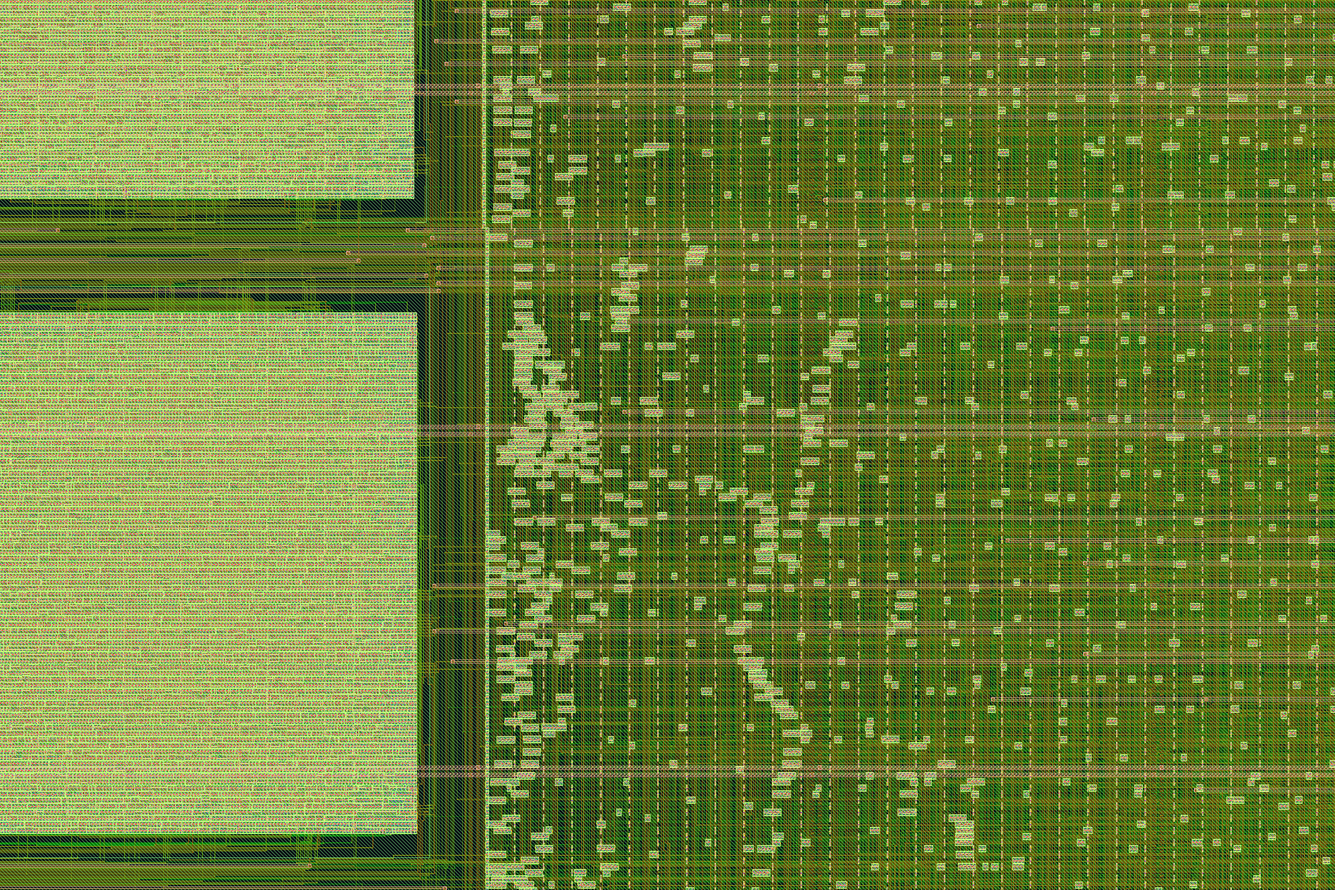
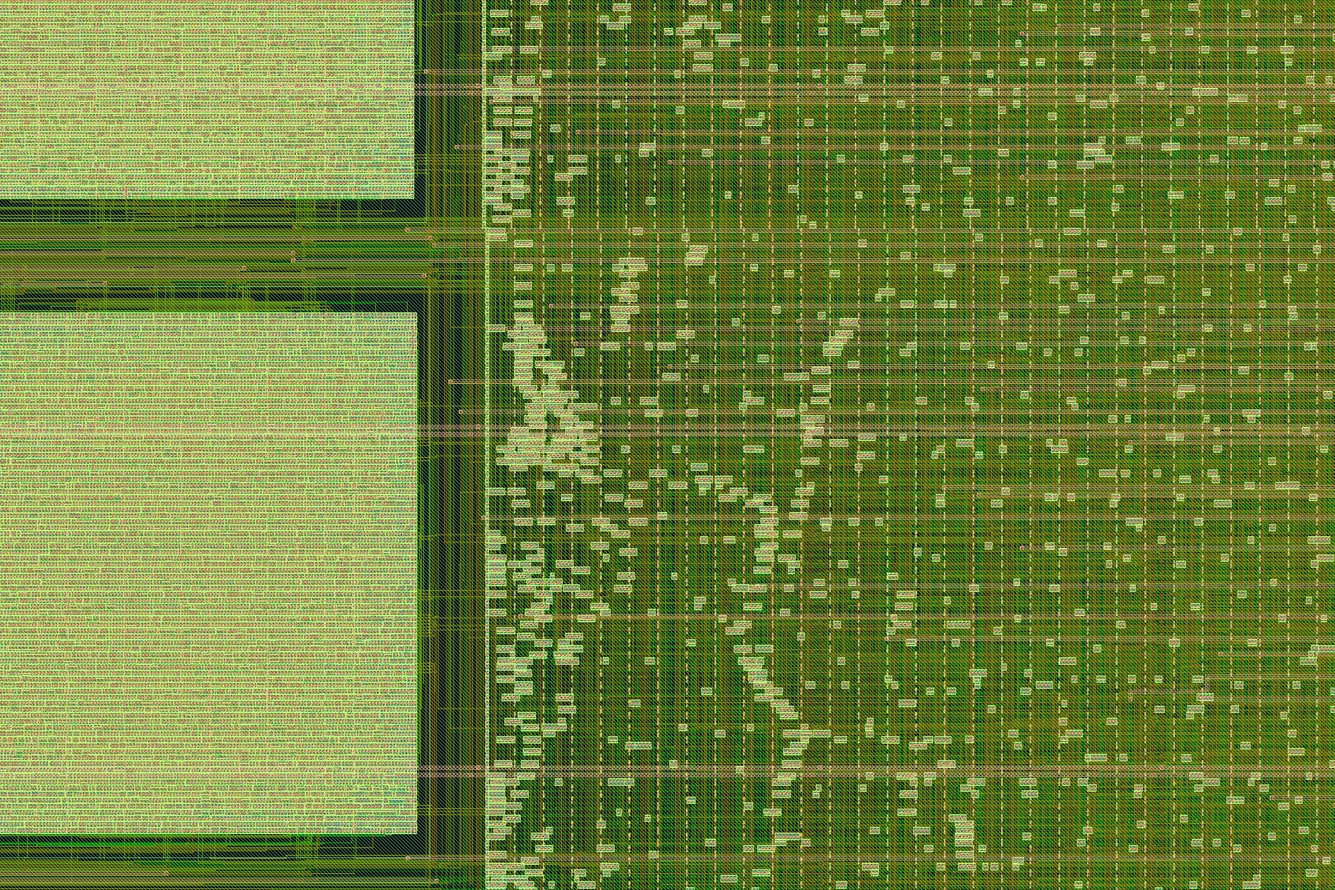
machine_routed: v6 (unsigned; DRT 0, setup clean at 9 corners, hold 252, gate-level replay pass)

Changed region(s): [[0.0, 0.0, 1.0, 1.0]]

diff --git a/docs/machine_routed/index.html b/docs/machine_routed/index.html
@@ -34,18 +34,18 @@ ul{padding-left:20px}
 <body>
 <main>
 <h1>吟游诗人 Bard · 整机布线版</h1>
-<p class="sub">R135 整机（token → 下一个 token）· SKY130A · 6.441 × 3.003 mm · 第三版（布线零违例）</p>
+<p class="sub">R135 整机（token → 下一个 token）· SKY130A · 6.441 × 3.003 mm · 第六版（布线零违例，setup 全过）</p>
 
-<div class="ok"><b>功能已核对。</b>把布线后的网表按 SKY130 官方单元模型还原成门级电路，再用 3 个用例回放：下一个 token 分别为 32、5、128，与 C 参考实现一致，拍数与 RTL 完全相同；故意改坏一个门后，回放会被判错。</div>
-<div class="warn"><b>未签核，不能流片。</b>详细布线已做到 <b>0</b> 处布线规则违例（第一版 24,314 处）。天线违例 11,151 根网没修好，DRC/LVS 和多工艺角时序签核都没做。时序（改正约束后，布线后 RC 提取、9 个工艺角）：hold 共 496 处违例，最差 −1.10 ns（慢角）；setup 在慢角有 34 处违例，最差 −14.3 ns，200 ns 时钟周期在慢角下不够；常温典型角 hold 34 处、最差 −0.65 ns，setup 无违例。原先报的 hold −3.13 ns 主要是约束写法造成的。</div>
+<div class="ok"><b>功能已核对。</b>把布线后的网表按 SKY130 官方单元模型还原成门级电路，再用 3 个用例回放：下一个 token 分别为 32、5、128，与 C 参考实现一致，拍数与 RTL 完全相同（2,499,420 / 5,612,207 / 9,418,594 拍）；故意改坏一个门后，回放会被判错。这是零延时的功能回放，不检查时序。</div>
+<div class="warn"><b>未签核，不能流片。</b>布线规则违例为 <b>0</b>。时序（布线后 RC 提取、9 个工艺角，200 ns 时钟）：setup 全部满足，最差还有 +108 ns 余量；hold 还有 252 处违例，最差 −0.443 ns。信号转换时间超限 136,371 处，其中 102,846 处在权重宏自己的输出缓冲上（下一版重硬化宏来解决）。天线违例 13,262 根网没修，DRC/LVS 签核没做。</div>
 
 <div class="stats">
 <div class="stat"><b>0</b><span>剩余布线违例（第一版 24,314）</span></div>
 <div class="stat"><b>19.34 mm²</b><span>芯片面积</span></div>
-<div class="stat"><b>311,420</b><span>实例（含 120 个宏）</span></div>
-<div class="stat"><b>29.6 m</b><span>总线长（第一版 40.9 m）</span></div>
+<div class="stat"><b>317,192</b><span>实例（含 120 个宏）</span></div>
+<div class="stat"><b>29.8 m</b><span>总线长（第一版 40.9 m）</span></div>
 <div class="stat"><b>7.44 mm²</b><span>120 个权重宏</span></div>
-<div class="stat"><b>2.73 mm²</b><span>标准单元</span></div>
+<div class="stat"><b>2.84 mm²</b><span>标准单元</span></div>
 </div>
 
 <figure><img src="whole.png" alt="整机布线全景：左右各 60 个权重宏，中间是整机主体" loading="lazy">
@@ -65,21 +65,23 @@ ul{padding-left:20px}
 
 <h2>这一版改了什么</h2>
 <div class="tw"><table>
-<tr><th></th><th>第一版（预览）</th><th>第二版</th><th>第三版（本页）</th></tr>
-<tr><td>主体单元落在宏带里</td><td>约 27,000 个</td><td>约 1,500 个</td><td>同第二版</td></tr>
-<tr><td>放置密度</td><td>65%</td><td>35%，主体铺满中间 3 mm</td><td>同第二版</td></tr>
-<tr><td>全局布线溢出</td><td>195,218</td><td>102,654</td><td>78,614</td></tr>
-<tr><td>详细布线</td><td>12 轮，剩 24,314</td><td>64 轮，剩 10</td><td>11 轮降到 0</td></tr>
-<tr><td>总线长</td><td>40.9 m</td><td>31.1 m</td><td>29.6 m</td></tr>
+<tr><th></th><th>第一版（预览）</th><th>第二版</th><th>第三版</th><th>第六版（本页）</th></tr>
+<tr><td>主体单元落在宏带里</td><td>约 27,000 个</td><td>约 1,500 个</td><td>同第二版</td><td>同第二版</td></tr>
+<tr><td>放置密度</td><td>65%</td><td>35%，主体铺满中间 3 mm</td><td>同第二版</td><td>同第二版</td></tr>
+<tr><td>全局布线溢出</td><td>195,218</td><td>102,654</td><td>78,614</td><td>77,210</td></tr>
+<tr><td>详细布线</td><td>12 轮，剩 24,314</td><td>64 轮，剩 10</td><td>11 轮降到 0</td><td>10 轮降到 0</td></tr>
+<tr><td>总线长</td><td>40.9 m</td><td>31.1 m</td><td>29.6 m</td><td>29.8 m</td></tr>
+<tr><td>setup 违例（9 角）</td><td>—</td><td>—</td><td>34，最差 −14.3 ns</td><td>0</td></tr>
+<tr><td>hold 违例（9 角）</td><td>—</td><td>—</td><td>496，最差 −1.10 ns</td><td>252，最差 −0.443 ns</td></tr>
 </table></div>
 <ul>
-<li>上一版的违例几乎全在宏上方的 met5：主体单元被摆进宏与宏之间的缝里，它们的连线只能从宏顶上绕。第二版给两侧宏带加了放置禁区，并降低放置密度，让主体在中间铺开；第三版沿用第二版的摆放，只把全局布线预留的余量从 30% 调到 20%，剩下的 10 处随之消失。</li>
-<li>网表没变：三版综合结果相同，只是摆放和走线不同。还原后的门级电路逐字节一致，所以上面的功能回放结论对三版都成立。</li>
+<li>上一版的违例几乎全在宏上方的 met5：主体单元被摆进宏与宏之间的缝里，它们的连线只能从宏顶上绕。第二版给两侧宏带加了放置禁区，并降低放置密度，让主体在中间铺开；第三版沿用第二版的摆放，只把全局布线预留的余量从 30% 调到 20%，剩下的 10 处随之消失。第四到六版修时序：先把时序约束改对（输入按同一时钟的外部寄存器建模），再打开布局后和布线后的设计修复（顶层加了 5,726 个缓冲，原先一根地址线拖着 120 个宏、横跨 6 mm 不加缓冲），慢角的 setup 违例全部消失。</li>
+<li>第一到三版只改了摆放和走线，还原后的门级电路逐字节一致；第五、六版加了缓冲，H 重新还原并完整重跑了 3 个用例，结果与第三版逐项相同。</li>
 <li>整机网表来自 H 的 R135：整机主体 189,989 NAND / 80,283 LATCH；共享权重表（31.7 万门）按地址高 7 位切成 128 块，120 块非零，各做成独立的宏，用 OR 链串起来。H 已对全部 32,768 个地址证明切块后与原表逐字相同。</li>
 <li>工具：LibreLane 3.0.14 / OpenROAD / KLayout，在自有机器上运行。</li>
 </ul>
 
-<p>下载：<a href="https://github.com/JogJohgoeg/nand-llama-research/releases/tag/machine-r135-routed-v3">第三版 OAS / GDS / 指标</a> · <a href="https://github.com/JogJohgoeg/nand-llama-research/releases/tag/machine-r135-routed-v2">第二版</a> · <a href="https://github.com/JogJohgoeg/nand-llama-research/releases/tag/machine-preview-r135-routed-v1">第一版（预览）</a> · <a href="../gds/int_c16_machine/">只到布局的 3D 预览</a> · <a href="../gds/">全部 3D 版图</a></p>
+<p>下载：<a href="https://github.com/JogJohgoeg/nand-llama-research/releases/tag/machine-r135-routed-v6">第六版 OAS / GDS / 指标</a> · <a href="https://github.com/JogJohgoeg/nand-llama-research/releases/tag/machine-r135-routed-v3">第三版</a> · <a href="https://github.com/JogJohgoeg/nand-llama-research/releases/tag/machine-r135-routed-v2">第二版</a> · <a href="https://github.com/JogJohgoeg/nand-llama-research/releases/tag/machine-preview-r135-routed-v1">第一版（预览）</a> · <a href="../gds/int_c16_machine/">只到布局的 3D 预览</a> · <a href="../gds/">全部 3D 版图</a></p>
 </main>
 </body>
 </html>
